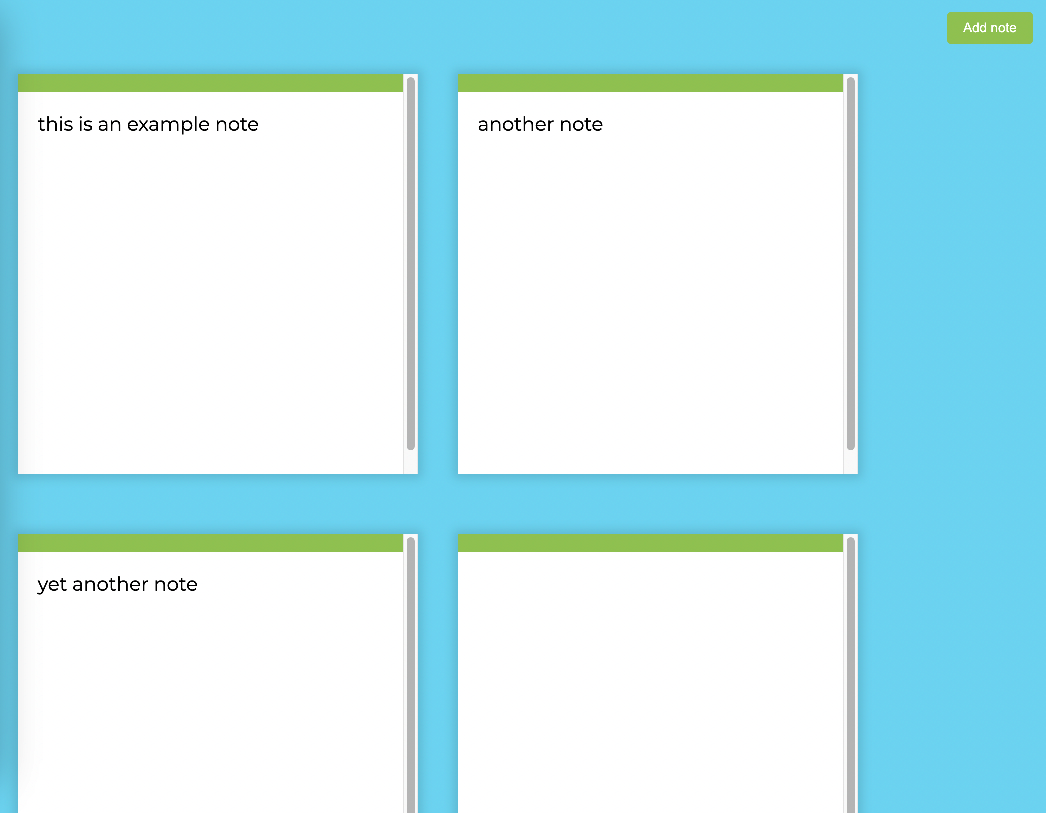
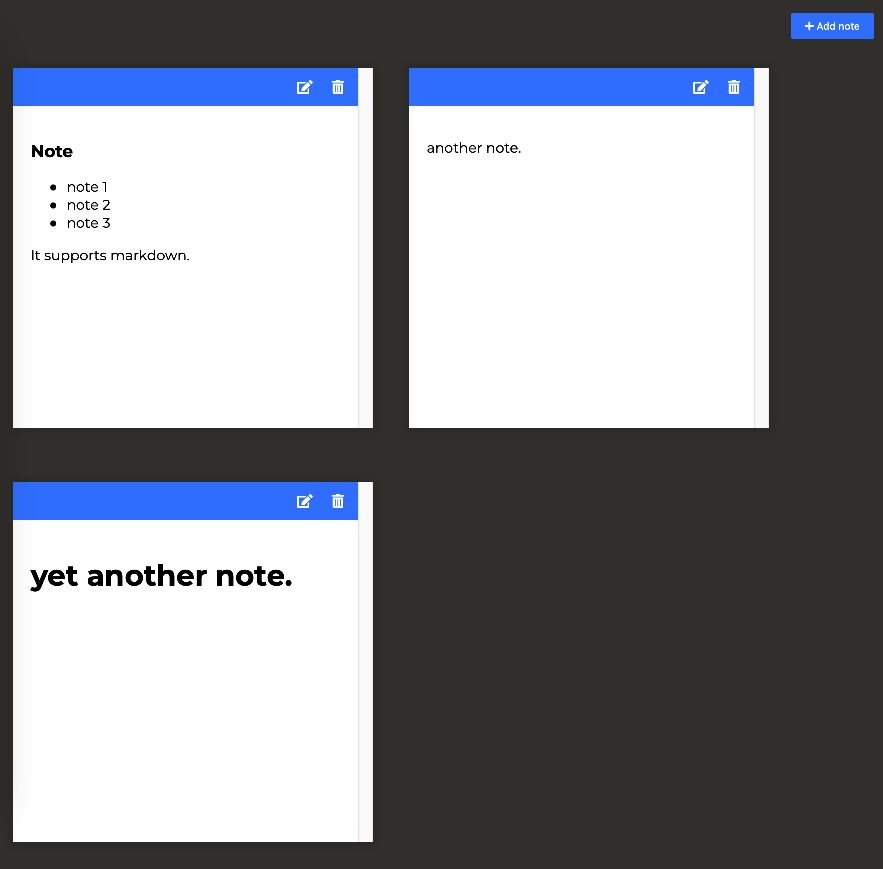
final adjustments

diff --git a/index.html b/index.html
@@ -4,8 +4,15 @@
     <meta charset="UTF-8" />
     <meta http-equiv="X-UA-Compatible" content="IE=edge" />
     <meta name="viewport" content="width=device-width, initial-scale=1.0" />
+    <link
+      rel="stylesheet"
+      href="https://cdnjs.cloudflare.com/ajax/libs/font-awesome/5.14.0/css/all.min.css"
+      integrity="sha512-1PKOgIY59xJ8Co8+NE6FZ+LOAZKjy+KY8iq0G4B3CyeY6wYHN3yt9PW0XpSriVlkMXe40PTKnXrLnZ9+fkDaog=="
+      crossorigin="anonymous"
+    />
+    <link rel="shortcut icon" href="./images/favicon.ico" type="image/x-icon" />
     <link rel="stylesheet" href="style.css" />
-    <title>Document</title>
+    <title>Notes App</title>
   </head>
   <body>
     <button class="add" id="add"><i class="fas fa-plus"></i> Add note</button>

diff --git a/style.css b/style.css
@@ -6,7 +6,7 @@
 }
 
 body {
-  background-color: #7bdaf3;
+  background-color: #403d39;
   font-family: "Montserrat", sans-serif;
   display: flex;
   flex-wrap: wrap;
@@ -18,7 +18,7 @@ body {
   position: fixed;
   top: 1rem;
   right: 1rem;
-  background-color: #9ec862;
+  background-color: #3a86ff;
   color: #fff;
   border: none;
   border-radius: 3px;
@@ -40,7 +40,7 @@ body {
 }
 
 .note .tools {
-  background-color: #9ec862;
+  background-color: #3a86ff;
   display: flex;
   justify-content: flex-end;
   padding: 0.5rem;

diff --git a/README.md b/README.md
@@ -1,6 +1,6 @@
-# Notes App - a simple DOM manipulation exercise
+# Notes App - using localStorage and marked library
 
-This is a simple DOM manipulation exercise that I did, folowing along with a tutorial.
+This is a tutorial bases, DOM manipulation exercise that uses the Local Storage API and marked library for enabling Markdoen support.
 
 ### Links
 
